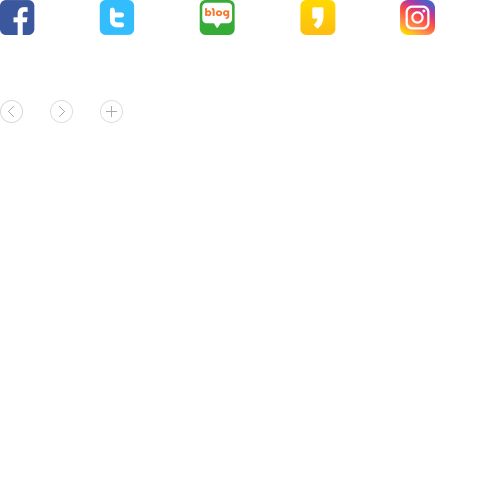
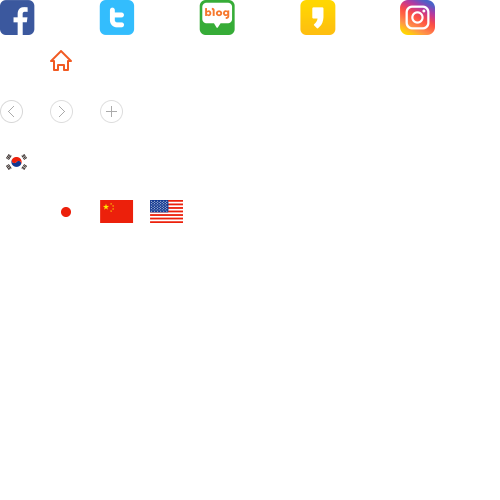
no message

diff --git a/static/css/component.css b/static/css/component.css
@@ -29,6 +29,41 @@
 #wrap { position: relative; min-width: 320px; }
 
 #header { overflow: hidden; height: 180px; }
+#header .inner { width: 1320px; position: relative; margin: 0 auto; }
+#header .inner:after { display: block; clear: both; content: ""; }
+#header .header-top { height: 40px; background: #383b3b; }
+#header .header-top .header-site { float: left; }
+#header .header-top .header-site:after { display: block; clear: both; content: ""; }
+#header .header-top .header-site li { float: left; border-right: 1px solid rgba(255, 255, 255, 0.2); }
+#header .header-top .header-site li:nth-child(1) a:before { display: inline-block; content: ""; width: 22px; height: 21px; background: url("../../static/images/common/sp_icon.png") no-repeat 0 -50px; margin-right: 10px; vertical-align: middle; }
+#header .header-top .header-site li a { display: block; width: 120px; font-size: 12px; color: #fff; line-height: 40px; text-align: center; }
+#header .header-top .header-site .current a { color: #f15a22; background: #fff; }
+#header .header-top .header-site li:nth-child(1).current a:before { background-position: -50px -50px; }
+#header .header-top .header-utilegroup { float: right; padding-top: 7px; }
+#header .header-top .header-utile { display: inline-block; font-size: 11px; color: #e1e1e1; }
+#header .header-top .header-utile:after { display: block; clear: both; content: ""; }
+#header .header-top .header-utile li { float: left; line-height: 23px; }
+#header .header-top .header-utile li + li:before { display: inline-block; content: ""; margin: 0 12px; width: 1px; height: 9px; background: rgba(173, 174, 174, 0.2); }
+#header .header-top .haeder-lang { display: inline-block; margin-left: 22px; }
+#header .header-top .haeder-lang li { float: left; }
+#header .header-top .haeder-lang li + li { margin-left: 7px; }
+#header .header-top .haeder-lang a { display: inline-block; width: 34px; height: 23px; text-indent: -999em; }
+#header .header-middle { position: relative; height: 90px; }
+#header .header-middle .title { position: absolute; left: 0; top: 17px; }
+#header .header-middle .title a { display: block; width: 139px; height: 60px; text-indent: -999em; background: url("../../static/images/usc/img_logo.png") no-repeat 50% 50%; }
+#header .header-middle .usc-snsgroup { position: absolute; right: 0; top: 0; height: 90px; padding-top: 20px; padding-right: 89px; background: url("../../static/images/usc/bg_header.png") no-repeat 100% 100%; }
+#header .header-middle .usc-snsgroup .txt { font-size: 15px; font-family: "NanumSquareB", "Malgun Gothic", "굴림", Gulim, "돋움", Dotum, Sans-serif; color: #2d2d2d; text-align: right; }
+#header .header-middle .usc-snsgroup .sns { overflow: hidden; margin-top: 10px; }
+#header .header-middle .usc-snsgroup .sns li { float: left; margin-left: 8px; }
+#header .header-middle .usc-snsgroup .sns a { display: block; width: 34px; height: 34px; text-indent: -999em; }
+#header .header-middle .comp-search { position: relative; top: 25px; width: 444px; height: 44px; margin: 0 auto; text-align: center; }
+#header .header-middle .comp-search .form { overflow: hidden; width: 100%; border: 3px solid #ffb00d; border-radius: 100px; background: #fff; }
+#header .header-middle .comp-search .form:after { display: block; clear: both; content: ""; }
+#header .header-middle .comp-search .form select { float: left; width: 85px; height: 38px; padding-left: 20px; text-align: right; background: url("../../static/images/common/form_select2.png") no-repeat 100% 50%; box-sizing: border-box; font-size: 13px; color: #222; line-height: 28px; }
+#header .header-middle .comp-search .form input { float: left; width: 353px; height: 38px; padding: 0 70px 0 20px; box-sizing: border-box; }
+#header .header-middle .comp-search button { width: 52px; height: 52px; position: absolute; right: 17px; top: -5px; border-radius: 100px; background: #ffb00d; }
+#header .header-middle .comp-search button span { display: inline-block; vertical-align: middle; width: 25px; height: 25px; text-indent: -999em; background: url("../../static/images/common/sp_icon.png") no-repeat -100px -50px; }
+#header .header-bottom { background: #d59f2b; min-height: 50px; }
 
 #footer { position: relative; height: 270px; background: #fff; }
 #footer .inner { position: relative; width: 1320px; margin: 0 auto; }
@@ -95,6 +130,13 @@ br.t, br.m { display: none; }
 *[class^=icon_][class$=_blog] { background-position: -200px 0; }
 *[class^=icon_][class$=_kakao] { background-position: -300px 0; }
 *[class^=icon_][class$=_instar] { background-position: -400px 0; }
+*[class^=icon_][class$=_country_korea] { background-position: 0 -150px; }
+*[class^=icon_][class$=_country_japan] { background-position: -50px -150px; }
+*[class^=icon_][class$=_country_china] { background-position: -100px -150px; }
+*[class^=icon_][class$=_country_en] { background-position: -150px -150px; }
+*[class^=icon_][class$=_country_japan]:hover { background-position: -50px -200px; }
+*[class^=icon_][class$=_country_china]:hover { background-position: -100px -200px; }
+*[class^=icon_][class$=_country_en]:hover { background-position: -150px -200px; }
 
 /* BUTTON */
 *[class^=btn-txt][class$=_more] { display: inline-block; width: 90px; height: 30px; line-height: 30px; font-size: 14px; color: #b4b4b4; text-align: center; border: 1px solid #ddd; background: #fff; box-sizing: border-box; }

diff --git a/static/css/scss/component.scss b/static/css/scss/component.scss
@@ -36,7 +36,72 @@
 #wrap {position:relative; min-width:320px;}
 #header {
 	overflow:hidden; height: 180px;
-}
+	.inner {
+		width:1320px; position: relative; margin:0 auto; 
+		&:after {display:block; clear:both; content:""}
+	}
+
+	.header-top {
+		height: 40px; background:#383b3b;
+		.header-site {
+			float: left; 
+			&:after {display:block; clear:both; content:""}
+			li {
+				float: left; border-right:1px solid rgba(256,256,256,0.2); 
+				&:nth-child(1) a:before {display: inline-block; content: ""; width: 22px; height: 21px; @include background("common/sp_icon.png", no-repeat 0 -50px); margin-right: 10px; vertical-align: middle;}
+				a {display:block;width:120px;  font-size: 12px; color:#fff; line-height: 40px; text-align: center;}
+			}
+
+			.current a {color:#f15a22; background:#fff; }
+			li:nth-child(1).current a:before {background-position: -50px -50px;} 
+		}
+		.header-utilegroup {float: right; padding-top: 7px;}
+		.header-utile {
+			display: inline-block; font-size: 11px; color:#e1e1e1;
+			&:after {display:block; clear:both; content:""}
+			li {float: left; line-height: 23px;}
+			li+li:before {display: inline-block; content: ""; margin:0 12px; width: 1px; height: 9px; background:rgba(173,174,174,0.2);}
+		}
+		.haeder-lang {
+			display: inline-block; margin-left: 22px;
+			li {float: left;}
+			li + li {margin-left: 7px;}
+			a {display: inline-block; width: 34px; height: 23px; text-indent: -999em;}
+		}
+	}
+	.header-middle {
+		position:relative; height: 90px; 
+		.title {
+			position: absolute; left:0; top:17px; 
+			a {display:block; width: 139px; height: 60px; text-indent: -999em; @include background("usc/img_logo.png",no-repeat 50% 50%);}
+		}
+		.usc-snsgroup {
+			position: absolute; right: 0; top:0; height: 90px; padding-top: 20px; padding-right: 89px; 
+			@include background("usc/bg_header.png",no-repeat 100% 100%);
+			.txt {font-size: 15px; font-family: $font2; color:#2d2d2d; text-align: right;}
+			.sns { 
+				overflow: hidden; margin-top: 10px;
+				li {float: left; margin-left: 8px; }
+				a {display: block; width: 34px; height: 34px; text-indent: -999em; }
+			}
+		}
+		.comp-search {
+			position: relative; top:25px; width:444px; height:44px;margin:0 auto; text-align: center;
+			.form {overflow:hidden; width: 100%; border:3px solid #ffb00d; border-radius: 100px; background:#fff; 
+				&:after {display:block; clear:both; content:""}
+				select {float: left; width: 85px; height: 38px; padding-left: 20px; text-align: right; @include background("common/form_select2.png",no-repeat 100% 50%); box-sizing: border-box; font-size: 13px; color:#222; line-height: 28px}
+				input {float: left; width: 353px; height: 38px; padding:0 70px 0 20px; box-sizing: border-box}
+			}
+			button {
+				width: 52px; height: 52px; position: absolute; right: 17px; top:-5px; border-radius: 100px; background:#ffb00d;
+				span {display: inline-block; vertical-align: middle; width: 25px; height: 25px; text-indent: -999em; @include background("common/sp_icon.png",no-repeat -100px -50px);}
+			}
+		}
+	}
+	.header-bottom {
+		background:#d59f2b; min-height: 50px;
+	}
+} 
 #gnb {}
 #footer {
 	position:relative; height: 270px; background:#fff;
@@ -184,6 +249,13 @@ br.m {display:none}
 	&[class$=_kakao] {background-position:-300px 0;}
 	&[class$=_instar] {background-position:-400px 0;}
 
+	&[class$=_country_korea] {background-position:0 -150px;}
+	&[class$=_country_japan] {background-position:-50px -150px;}
+	&[class$=_country_china] {background-position:-100px -150px;}
+	&[class$=_country_en] {background-position:-150px -150px;}
+	&[class$=_country_japan]:hover {background-position:-50px -200px;}
+	&[class$=_country_china]:hover {background-position:-100px -200px;}
+	&[class$=_country_en]:hover {background-position:-150px -200px;}
 
 }
 
@@ -350,10 +422,10 @@ table[class^=comp-tbl] {
 @media screen and (-webkit-min-device-pixel-ratio:0){ } // webkit hack
 @-moz-document url-prefix() { } // firefox hack
 
-@media (max-width:1025px){}
+@media (max-width:1024px){}
 @media (max-width:768px){
-.view-m {display: inherit;}
-.view-pc {display: none;}
+	.view-m {display: inherit;}
+	.view-pc {display: none;}
 
 
 }

diff --git a/templates/usc/header.html b/templates/usc/header.html
@@ -1,7 +1,7 @@
 <div id="header">
-	<div class="inner">
-		<!-- header top menu -->
-		<div class="header-top">
+	<!-- header top menu -->
+	<div class="header-top">
+		<div class="inner">
 			<ul class="header-site" aria-label="의성 연계 사이트 모음">
 				<li class="current"><a href="#"><span>의성군청</span></a></li>
 				<li><a href="#" target="_blank" title="새창으로 열림"><span>의성문화관광</span></a></li>
@@ -15,36 +15,45 @@
 					<li><a href="#"><span>로그인</span></a></li>
 					<li><a href="#"><span>회원가입</span></a></li>
 				</ul>
-				<ul class="haeder-lang" aria-label="홈페이지 언어 선택 메뉴">
-					<li><a href="#" class="current"><span>한국어</span></a></li>
-					<li><a href="#"><span>일본어</span></a></li>
-					<li><a href="#"><span>중국어</span></a></li>
-					<li><a href="#"><span>영어</span></a></li>
+				<ul class="haeder-lang" aria-label="언어별 홈페이지 이동 메뉴">
+					<li><a href="#" title="현재 언어" class="icon_country_korea"><span>한국어</span></a></li>
+					<li><a href="http://www.usc.go.kr/jp" target="_blank" title="새창으로 열림" class="icon_country_japan"><span>일본어</span></a></li>
+					<li><a href="http://www.usc.go.kr/cn" target="_blank" title="새창으로 열림" class="icon_country_china"><span>중국어</span></a></li>
+					<li><a href="http://www.usc.go.kr/eng" target="_blank" title="새창으로 열림" class="icon_country_en"><span>영어</span></a></li>
 				</ul>
 			</div>
 		</div>
-		<!--// header top menu -->
-		<!-- header middle -->
-		<div class="header-middle">
+	</div>
+	<!--// header top menu -->
+	<!-- header middle -->
+	<div class="header-middle">
+		<div class="inner">
 			<h1 class="title"><a href="#">활력넘치는 희망의성, 의성군</a></h1>
 			<div class="comp-search" role="search">
-				<input type="text" title="검색어 입력">
+				<div class="form">
+					<select name="" id="" title="검색어 분류 선택">
+						<option value="">통합검색</option>
+					</select>
+					<input type="text" title="검색어 입력">
+				</div>
 				<button type="submit"><span>검색</span></button>
 			</div>
 			<div class="usc-snsgroup">
 				<p class="txt">의성군과 소통하기</p>
 				<ul class="sns">
-					<li><a href="#" target="_blank" title="새창으로 열림"><span>페이스북</span></a></li>
-					<li><a href="#" target="_blank" title="새창으로 열림"><span>트위터</span></a></li>
-					<li><a href="#" target="_blank" title="새창으로 열림"><span>블로그</span></a></li>
-					<li><a href="#" target="_blank" title="새창으로 열림"><span>카카오스토리</span></a></li>
-					<li><a href="#" target="_blank" title="새창으로 열림"><span>인스타그램</span></a></li>
+					<li><a href="#" target="_blank" title="새창으로 열림" class="icon_facebook"><span>페이스북</span></a></li>
+					<li><a href="#" target="_blank" title="새창으로 열림" class="icon_twitter"><span>트위터</span></a></li>
+					<li><a href="#" target="_blank" title="새창으로 열림" class="icon_blog"><span>블로그</span></a></li>
+					<li><a href="#" target="_blank" title="새창으로 열림" class="icon_kakao"><span>카카오스토리</span></a></li>
+					<li><a href="#" target="_blank" title="새창으로 열림" class="icon_instar"><span>인스타그램</span></a></li>
 				</ul>
 			</div>
 		</div>
-		<!--// header middle -->
-		<!-- header gnb -->
-		<div class="header-bottom">
+	</div>
+	<!--// header middle -->
+	<!-- header gnb -->
+	<div class="header-bottom">
+		<div class="inner">
 			<nav>
 				<div id="gnb">
 					<ul class="gnb">
@@ -60,6 +69,6 @@
 				</div>
 			</nav>
 		</div>
-		<!--// header gnb -->
 	</div>
+	<!--// header gnb -->
 </div>

diff --git a/static/css/scss/usc.scss b/static/css/scss/usc.scss
@@ -4,6 +4,15 @@
 
 
 /* ------------------------------------------------------
+LAYOUT
+------------------------------------------------------ */
+#wrap.usc #header {
+	
+	
+}
+
+
+/* ------------------------------------------------------
 MAIN
 ------------------------------------------------------ */
 #wrap.usc #container.main {
@@ -679,7 +688,7 @@ BROWSER HACK
 /* ------------------------------------------------------
 MEDIA QUERY
 ------------------------------------------------------ */
-@media (max-width:1025px){}
+@media (max-width:1024px){}
 @media (max-width:768px){
 
 

diff --git a/templates/usc/index.html b/templates/usc/index.html
@@ -165,7 +165,6 @@
 								</div>
 							</div>
 							<!--// 알려드립니다. -->
-
 						</div>
 					</div>
 					<!--// 관광 탭  -->
